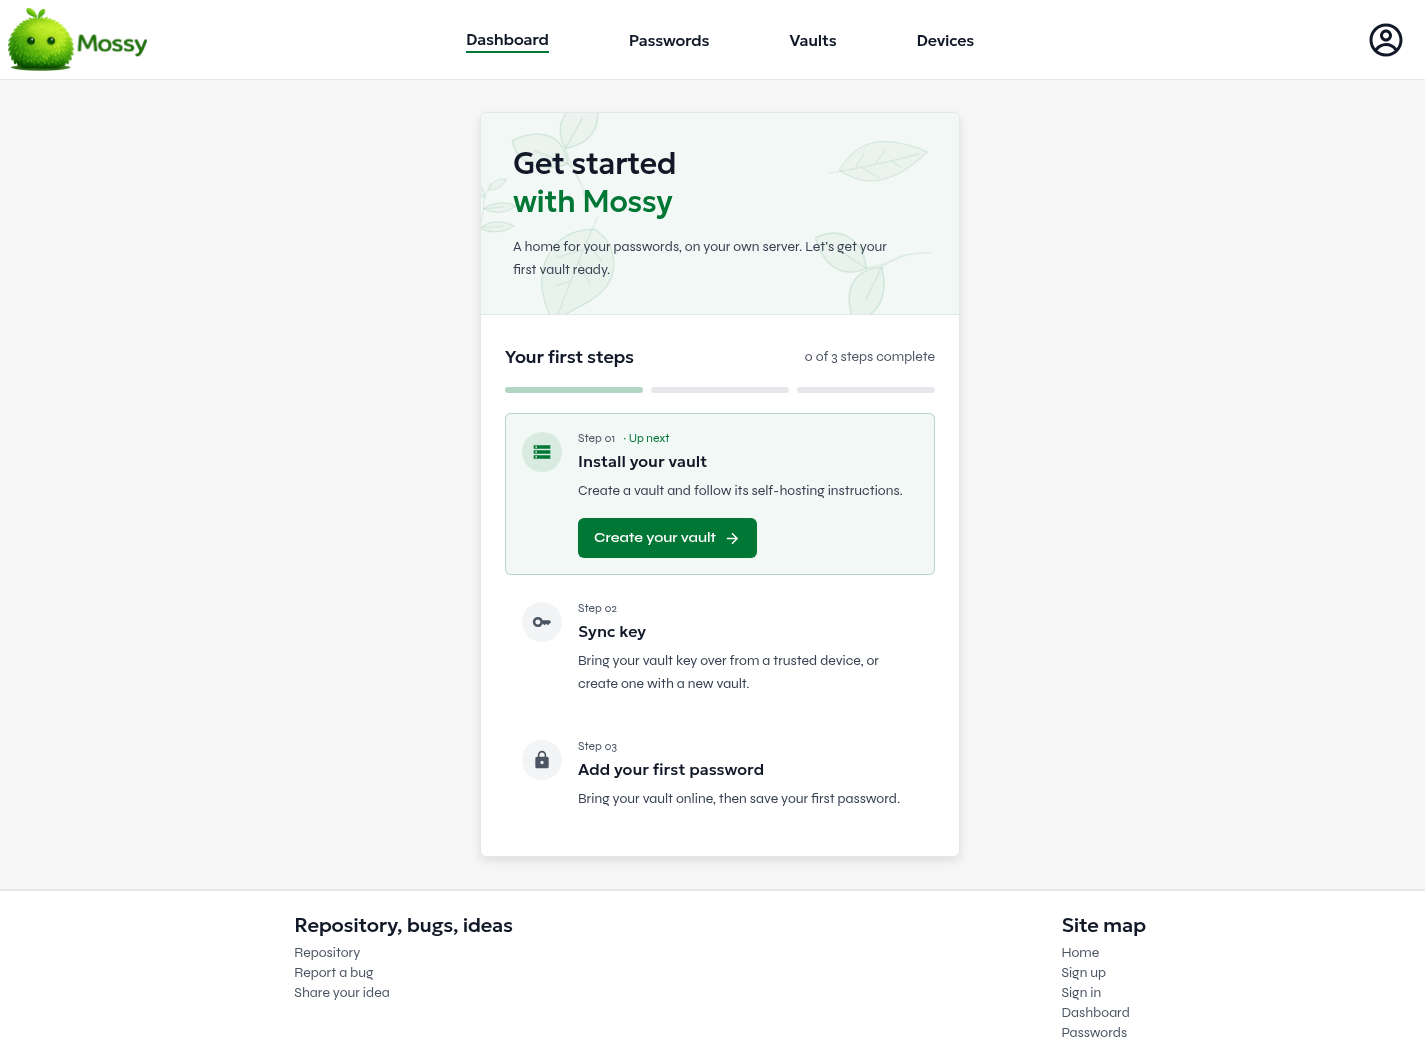
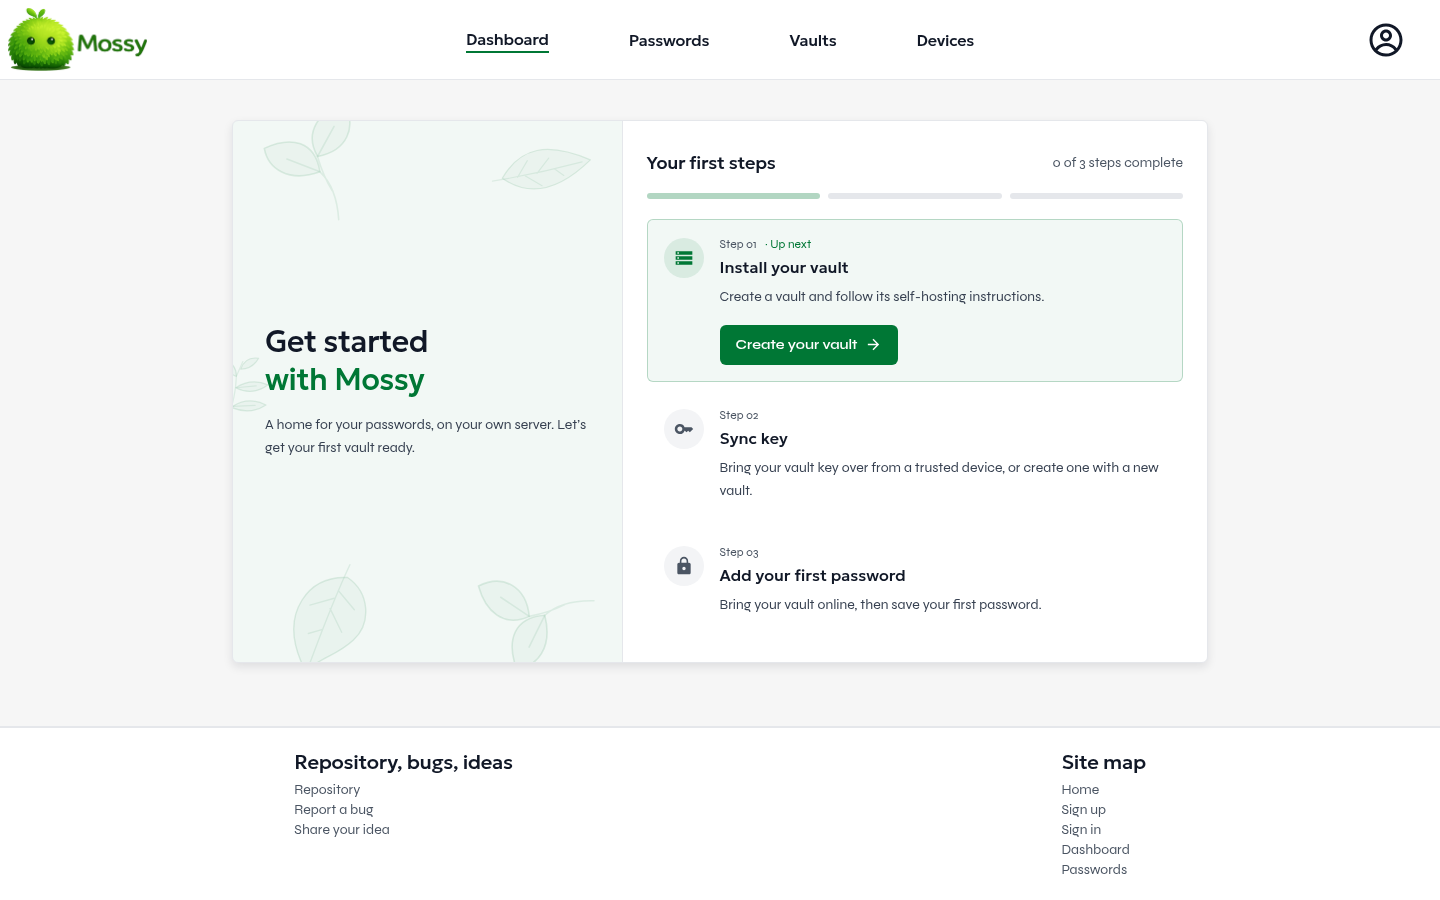
refine(frontend): balance onboarding with a 2:3 column split

diff --git a/mossy-frontend/src/ui/dashboard/DashboardOnboarding.tsx b/mossy-frontend/src/ui/dashboard/DashboardOnboarding.tsx
@@ -82,14 +82,14 @@ export default function DashboardOnboarding({
 
     return (
         <motion.section
-            className="mx-auto w-full max-w-lg px-4 py-6 sm:py-8"
+            className="mx-auto w-full max-w-5xl px-4 py-6 sm:px-6 sm:py-10"
             aria-labelledby="onboarding-title"
             initial={reducedMotion ? false : { opacity: 0, y: 12 }}
             animate={{ opacity: 1, y: 0 }}
             transition={{ duration: 0.35, ease: 'easeOut' }}
         >
-            <div className="overflow-hidden rounded-md border border-border bg-surface shadow-card">
-                <div className="relative border-b border-border bg-brand/5 px-6 py-7 sm:px-8 sm:py-8">
+            <div className="grid overflow-hidden rounded-md border border-border bg-surface shadow-card md:grid-cols-[2fr_3fr]">
+                <div className="relative flex items-center border-b border-border bg-brand/5 px-6 py-7 sm:px-8 sm:py-8 md:border-r md:border-b-0">
                     <div className="pointer-events-none absolute inset-0 opacity-45">
                         <SectionLeaves variant="sprigs" />
                     </div>
